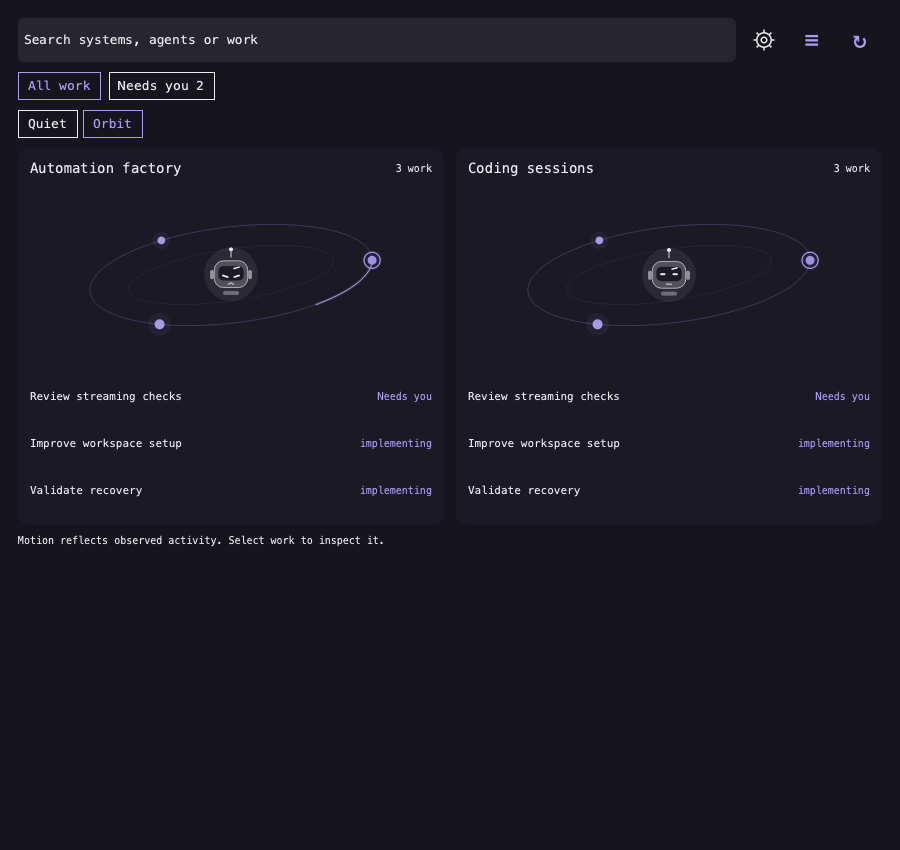
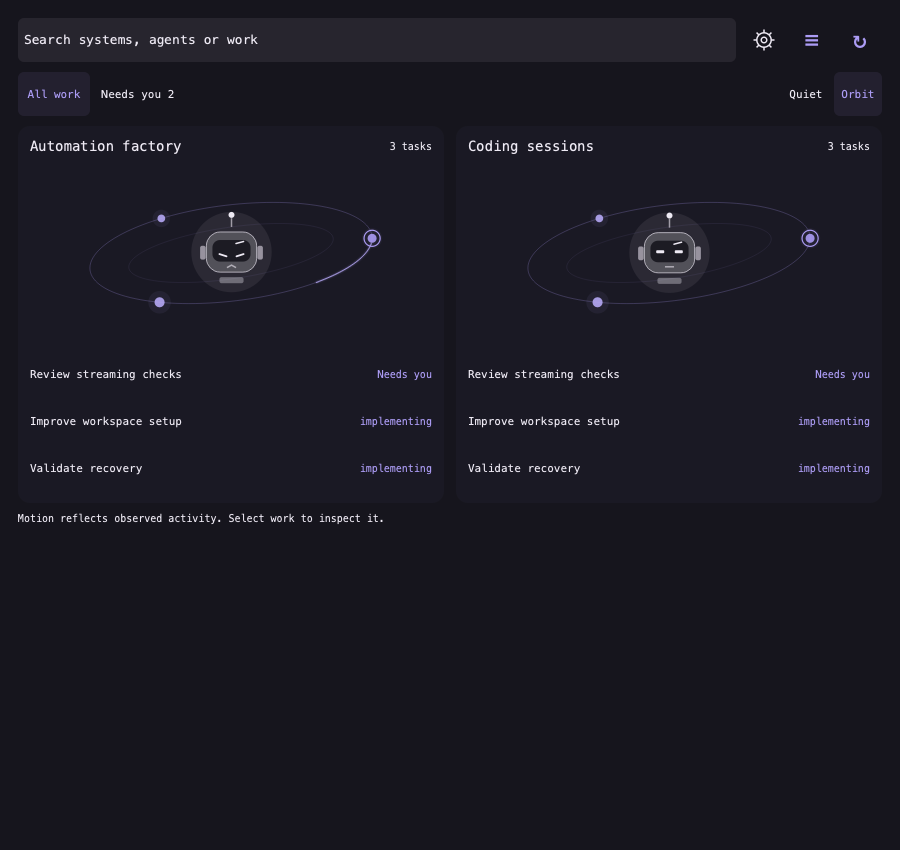
Pin larger Orbit robots and compact unified controls

diff --git a/.specify/evidence/orbit-crew-local.md b/.specify/evidence/orbit-crew-local.md
@@ -30,3 +30,7 @@ saved-color fixture. Shared-source exact-frame parity has 54 passing comparisons
 Smooth rail follow-up: the shared asset now uses one unwarped ellipse for the
 rail, work positions and light. Updated actual Qt fixture screenshot inspected;
 shared equation/seam and renderer regressions passed. Native gates are unchanged.
+
+Readability update: shared asset has the original center robot at 93 dp, explicit
+task counts and one combined filter/view row. Actual Qt 900/360 px renders and
+selection checks passed. Matching wide/narrow fixture previews are committed.

diff --git a/docs/orbit-design.md b/docs/orbit-design.md
@@ -57,3 +57,8 @@ Robot identity correction: onboarding now executes assets/RobotProgram.js genera
 from the exact original shared Bot source. RobotPortrait.qml only supplies theme,
 size, saved colors and a clock to the existing OWL painter; it draws no independent
 character geometry. Previews above have been refreshed to show that correction.
+
+The combined filter/view row and larger original center robot are also checked
+at narrow width:
+
+![Narrow Orbit fixture](images/orbit-narrow-qt-fixture.png)
